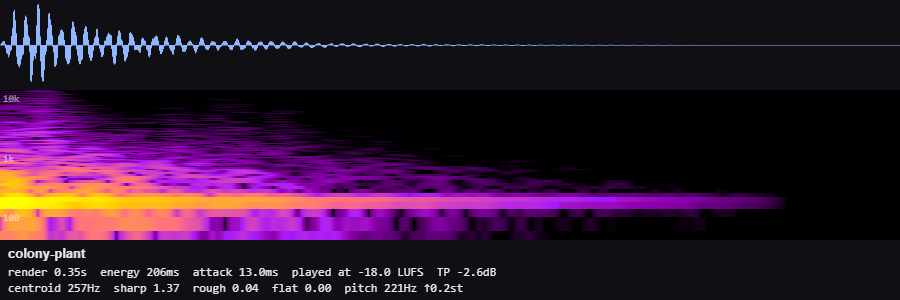
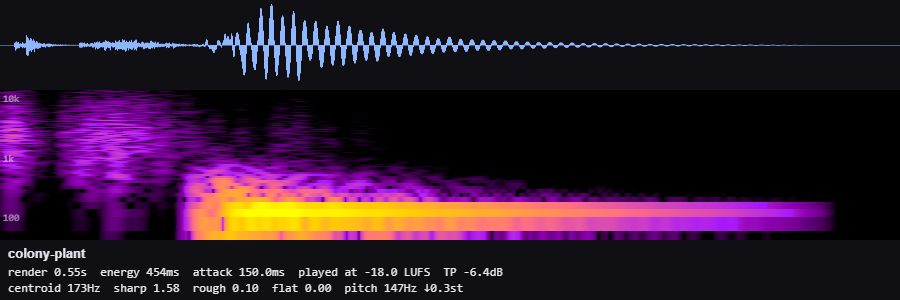
feat: soften the colony planting effect into a wum (#64)
The colony kit's `plant` effect keeps its seed pour and soil settling, and its triangle pluck ending becomes a sine D3 with a 35 ms onset, a 500 Hz low-pass and a longer decay: a soft, rounded wum chosen by the owner in an audition. The booth pad, look image, recipe copy, session and quality entries and manifest are regenerated; the other effects, beds and songs are byte-identical.

Zero lint errors or warnings; true peak -4.51 dBTP; about 0.45 s of energy.

diff --git a/library/sounds/colony-sfx/README.md b/library/sounds/colony-sfx/README.md
@@ -37,7 +37,7 @@ environment; the occasional pitched details remain subordinate.
 | Asset / source file in `effects/` | Listening label | Event and character |
 | --- | --- | --- |
 | `till` | Soil and steel | Successful tilling: a padded tool bite, quiet handle contact and loose grains settling |
-| `plant` | A seed tucked in | Successful planting: tiny shell rattle, soft soil and a rounded low pluck |
+| `plant` | A seed tucked in | Successful planting: seeds poured into soft soil, settling with a low, rounded wum |
 | `water` | Watering the roots | Successful watering: soft pouring noise and staggered falling droplets |
 | `harvest` | Picked with care | Successful harvest: a woody stem release with restrained upper overtones |
 | `discovery` | A new find | First discovery only: a four-note glass figure with a warm low anchor |
